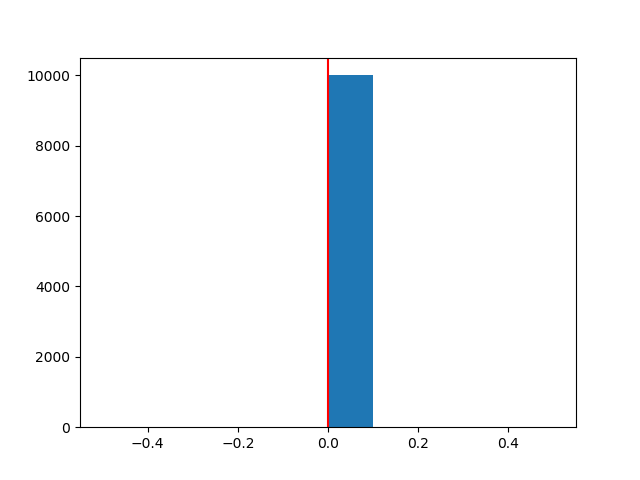
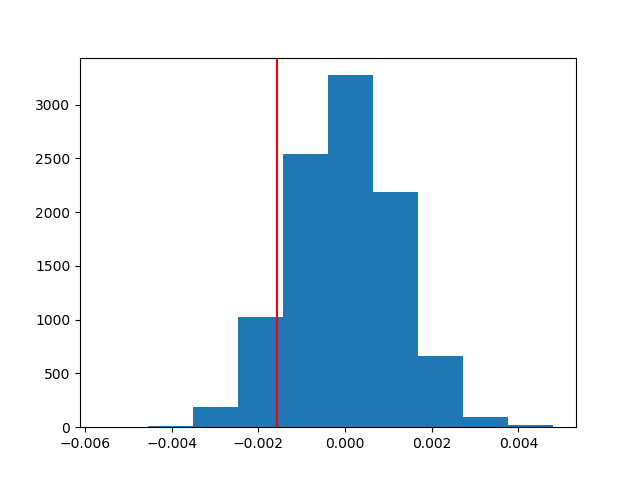
Fixed bug in proportion simulation (float division)

diff --git a/a-b-test-project.py b/a-b-test-project.py
@@ -24,20 +24,21 @@ print(df2[df2['user_id'].duplicated(keep=False)])
 df2.drop_duplicates('user_id', inplace=True)
 #Now get the proportion of conversions for control and treatment
 df_control = df2.query('group == "control"')
-cont_convert = df_control.query('converted == 1').shape[0] / df_control.shape[0]
+cont_convert = float(df_control.query('converted == 1').shape[0]) / df_control.shape[0]
 
 df_treat = df2.query('group == "treatment"')
-treat_convert = df_treat.query('converted == 1').shape[0] / df_treat.shape[0]
+treat_convert = float(df_treat.query('converted == 1').shape[0]) / df_treat.shape[0]
 
 obs_diff = treat_convert - cont_convert
 #Now lets run an A/B test by simulating the null hypothesis
-pnewnull = df2.query('converted == 1').shape[0] / df2.shape[0]
-poldnull = df2.query('converted == 1').shape[0] / df2.shape[0]
+pnewnull = float(df2.query('converted == 1').shape[0]) / df2.shape[0]
+poldnull = float(df2.query('converted == 1').shape[0]) / df2.shape[0]
 nnew = df2.query('landing_page == "new_page"').shape[0]
 nold = df2.query('landing_page == "old_page"').shape[0]
 
+
 p_diffs = []
-for _ in range(10000):
+for i in range(10000):
     new_convert = np.random.choice([0, 1], size=nnew, p=[1-pnewnull, pnewnull])
     old_convert = np.random.choice([0, 1], size=nold, p=[1-poldnull, poldnull])
     p_diffs.append(new_convert.mean() - old_convert.mean())
